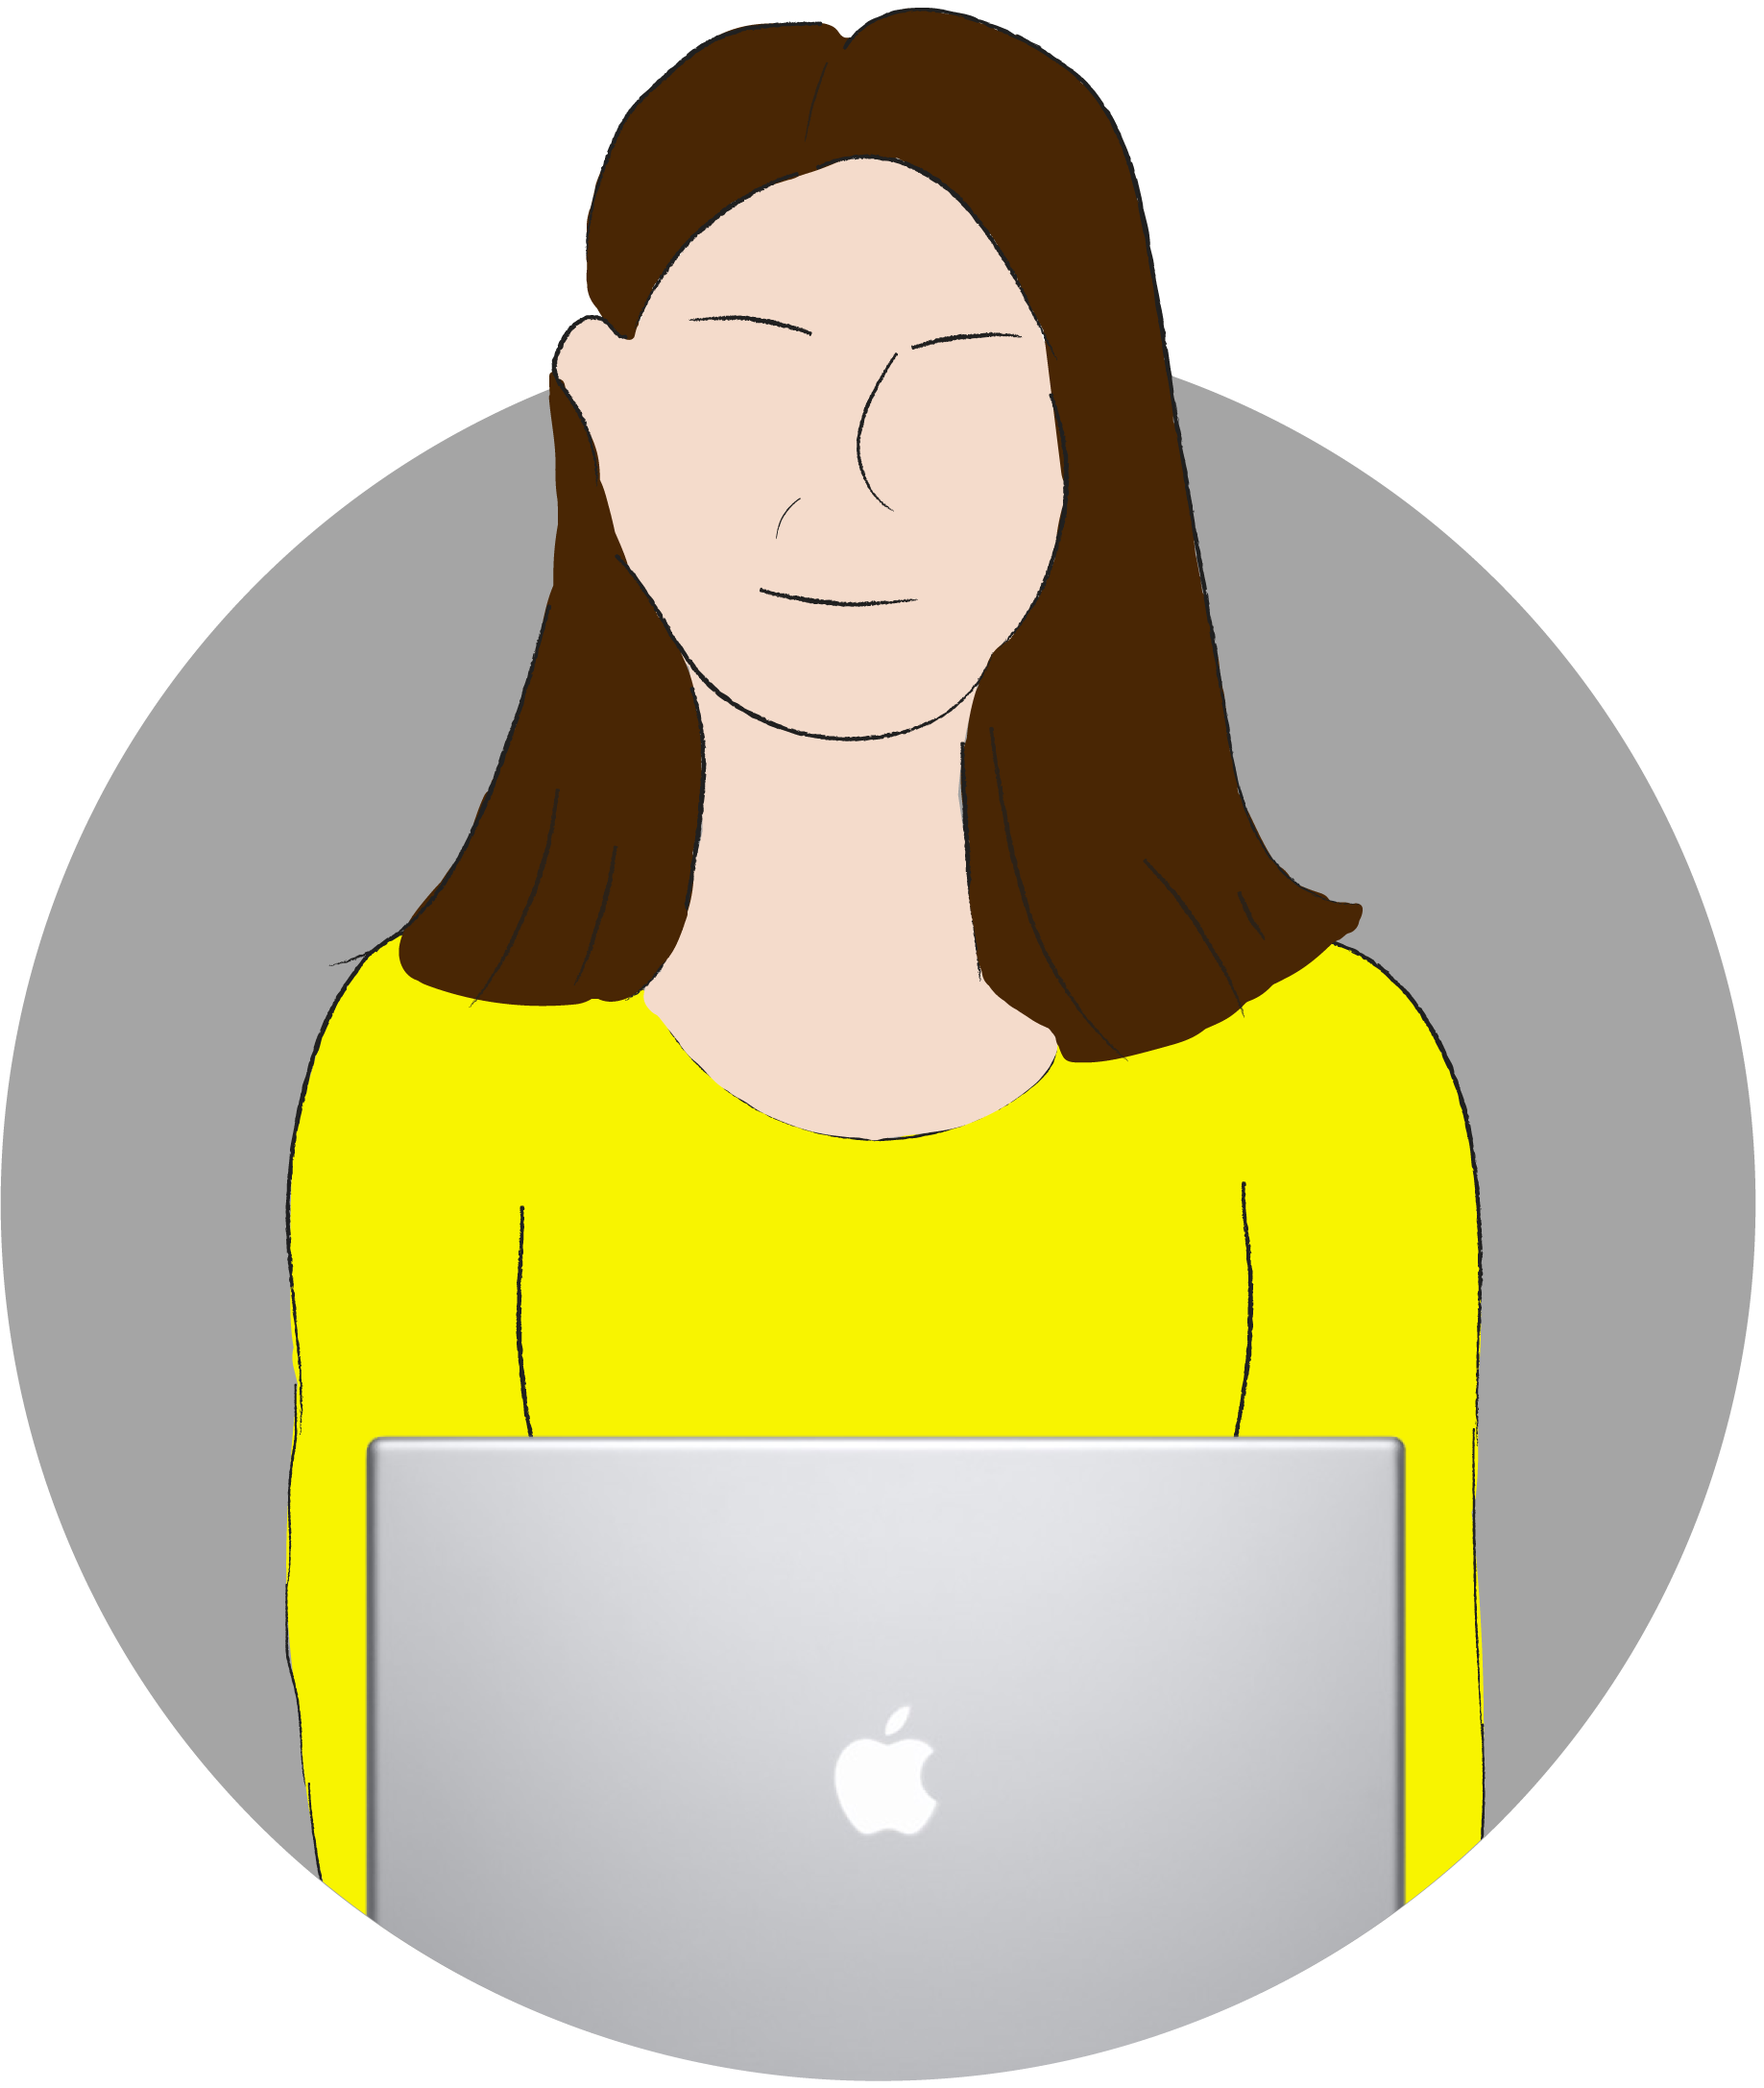
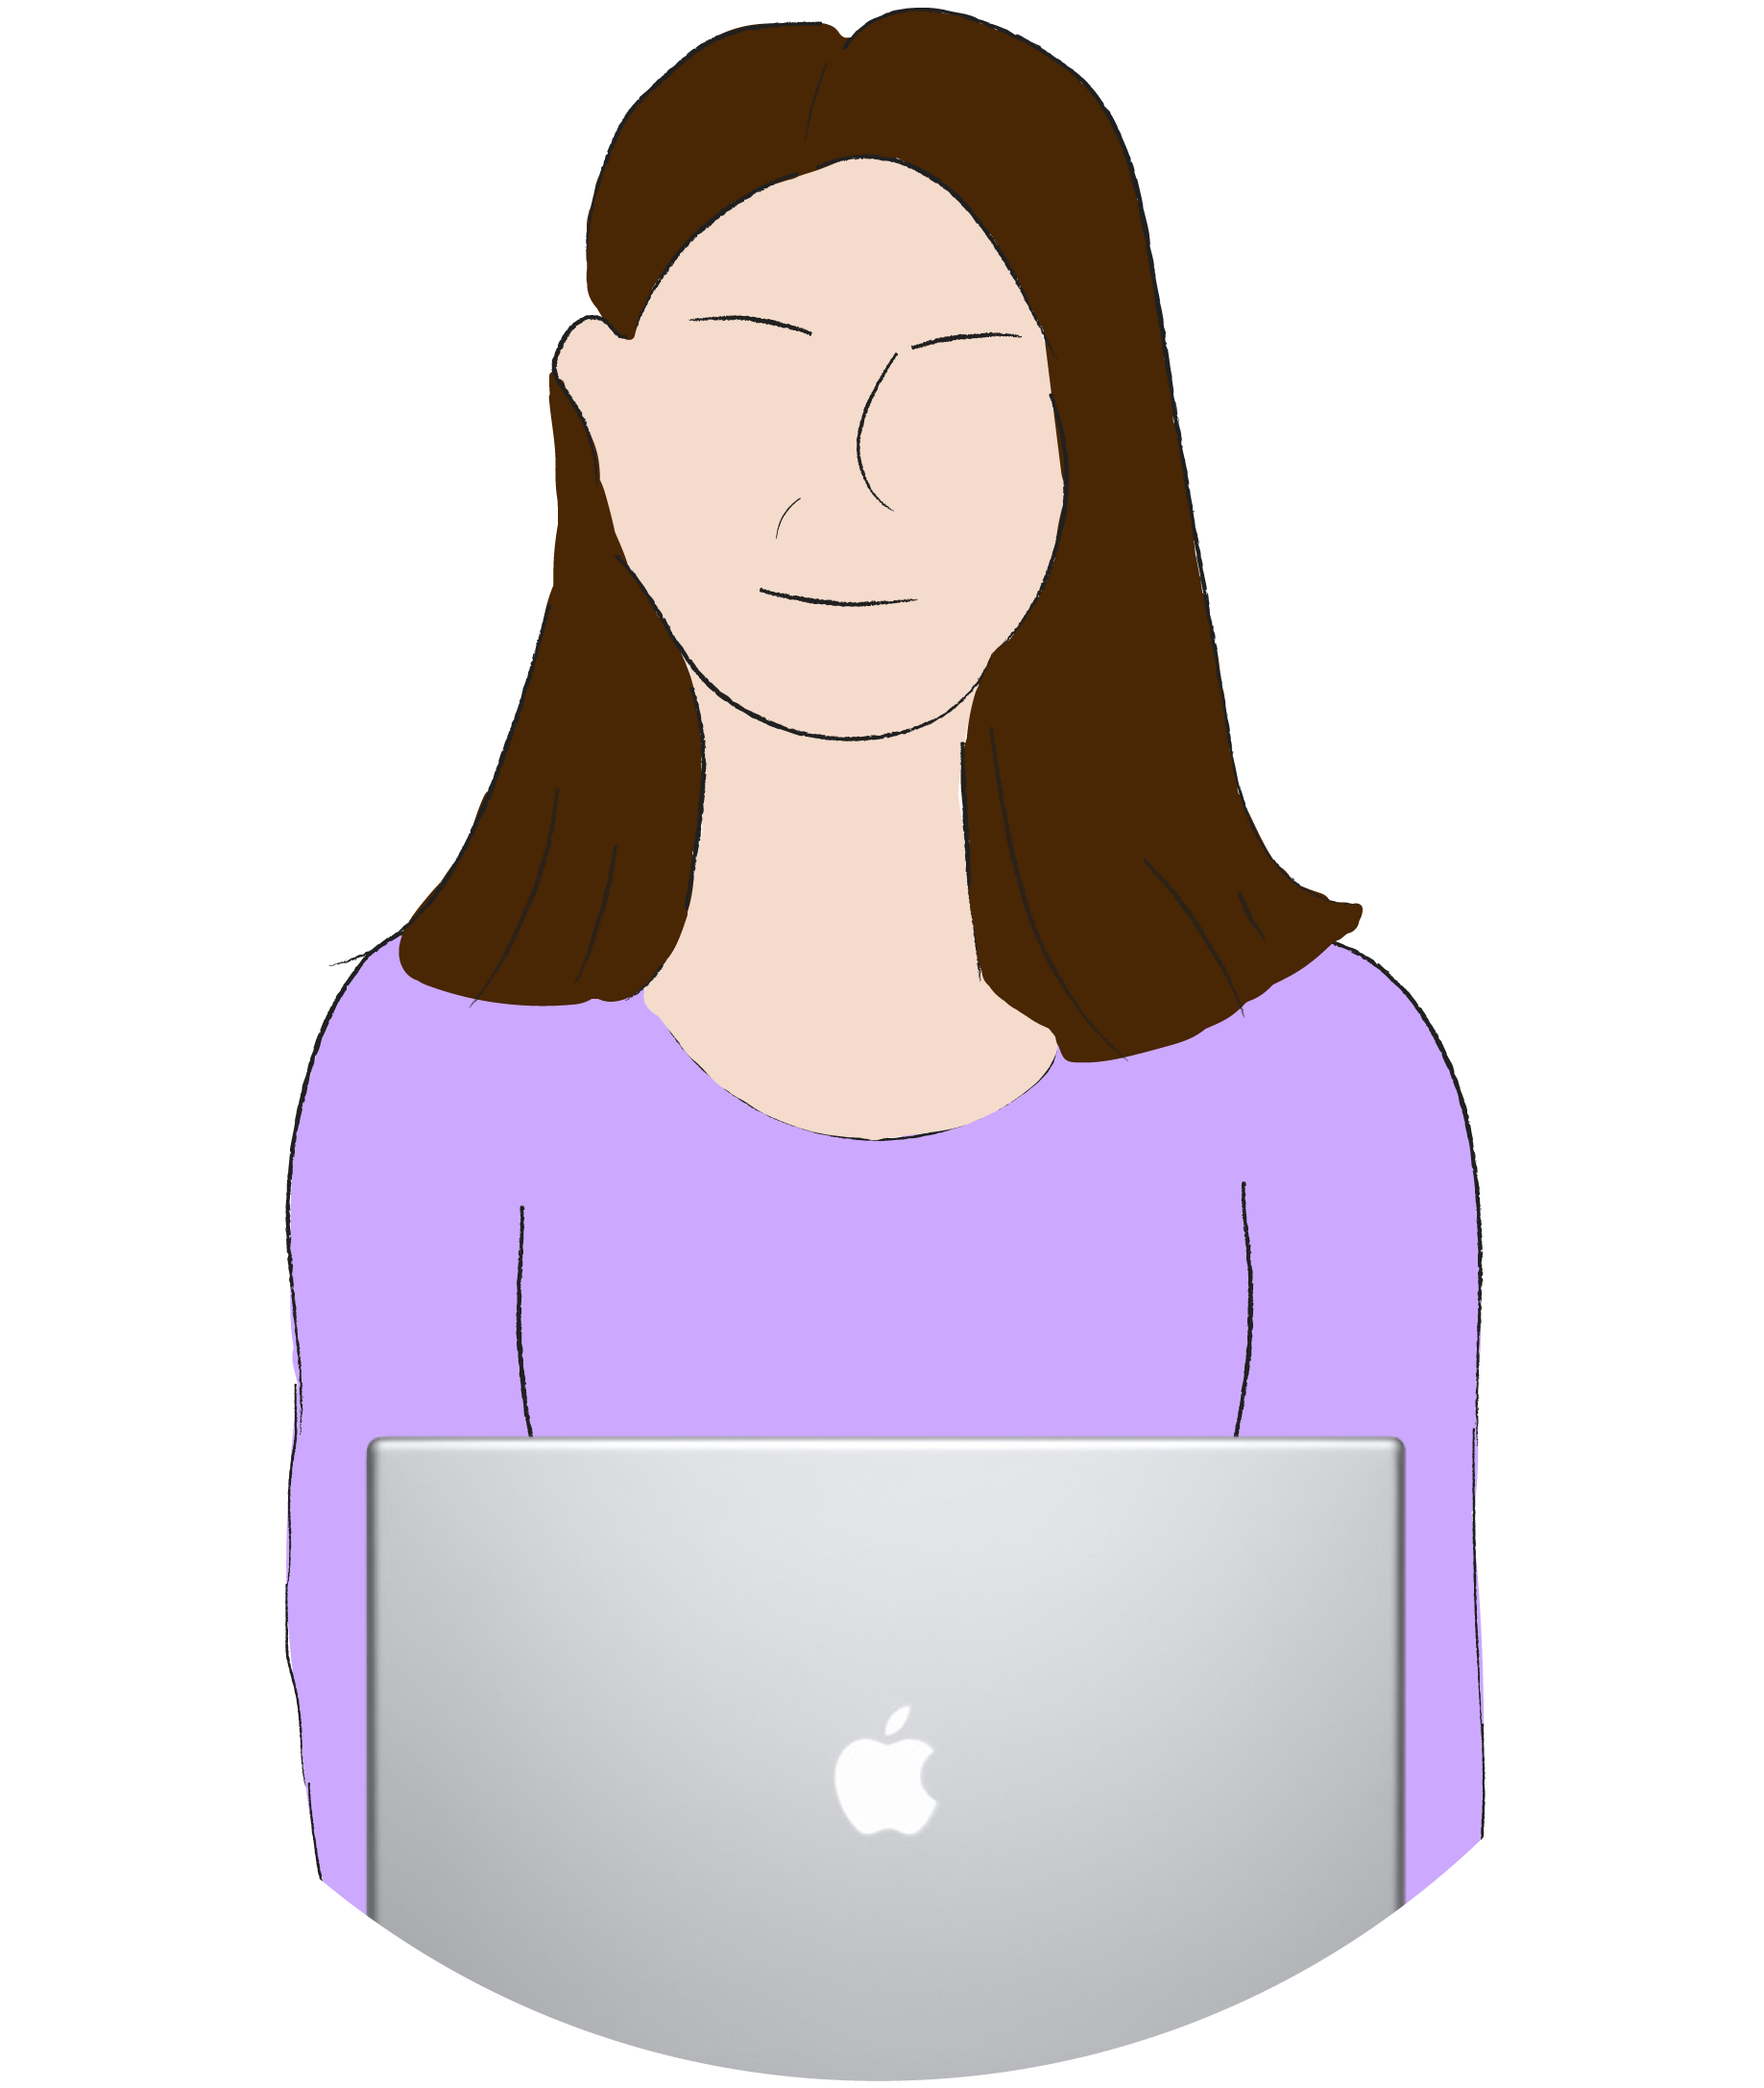
UI수정 /  프로필 사진 변경, 프로필 스타일 추가

diff --git a/src/styles/pages/_profile.scss b/src/styles/pages/_profile.scss
@@ -1,128 +1,146 @@
-$gray: #A5A5A5;
 
 .profile-container {
   width: 100%;
   height: 100%;
   display: flex;
-  background: #ebebeb;
-  text-align: center;
-  justify-content: flex-end;
-  align-items: center;
+  background: #fff8cf;
+  justify-content: space-around;
 
-  .profile-img {
-    height: 400px;
+  .test {
     align-self: center;
-    margin-right: 300px;
   }
 
-  body {
-    font-family: tahoma;
-    height: 100vh;
-    background-image: url(https://picsum.photos/g/3000/2000);
-    background-size: cover;
-    background-position: center;
-    display: flex;
-  }
-
-  .our-team {
-    padding: 30px 0 40px;
-    margin-bottom: 30px;
-    background-color: #f7f5ec;
-    text-align: center;
-    overflow: hidden;
-    position: relative;
-  }
-
-  .our-team .picture {
-    display: inline-block;
-    height: 130px;
-    width: 130px;
-    margin-bottom: 50px;
-    z-index: 1;
-    position: relative;
-  }
-
-  .our-team .picture::before {
-    content: "";
-    width: 100%;
-    height: 0;
-    border-radius: 50%;
-    background-color: #1369ce;
-    position: absolute;
-    bottom: 135%;
-    right: 0;
-    left: 0;
-    opacity: 0.9;
-    transform: scale(3);
-    transition: all 0.3s linear 0s;
-  }
-
-  .our-team:hover .picture::before {
-    height: 100%;
-  }
-
-  .our-team .picture::after {
-    content: "";
-    width: 100%;
-    height: 100%;
-    border-radius: 50%;
-    background-color: #f7f5ec;
-    position: absolute;
-    top: 0;
-    left: 0;
-    z-index: -1;
-  }
-
-  .our-team .picture img {
-    width: 100%;
+  //프로필 부분
+  .profile-frame {
+    width: 400px;
     height: auto;
-    border-radius: 50%;
-    transform: scale(1);
-    transition: all 0.9s ease 0s;
+    background: #fff;
+    border-radius: 3px;
+    box-shadow: 10px 10px 15px 0 rgba(0, 0, 0, 0.3);
+    text-align: center;
+    align-self: center;
+
+    .profile-image {
+      position: relative;
+      width: 200px;
+      height: 200px;
+      margin: 50px auto 80px;
+
+      .circle-1 {
+        position: absolute;
+        box-sizing: border-box;
+        width: 280px;
+        height: 280px;
+        left: -40px;
+        top: -20px;
+        border-width: 1px;
+        border-style: solid;
+        border-color: #ad76ff #ad76ff #ad76ff transparent;
+        border-radius: 50%;
+        transition: all 1.5s ease-in-out;
+      }
+
+      .circle-2 {
+        @extend .circle-1;
+        width: 260px;
+        height: 260px;
+        left: -30px;
+        top: -10px;
+        border-color: #ad76ff transparent #ad76ff #ad76ff;
+      }
+
+      img {
+        display: block;
+        border-radius: 50%;
+      }
+
+      &:hover {
+        cursor: pointer;
+
+        .circle-1 {
+          transform: rotate(360deg);
+        }
+
+        .circle-2 {
+          transform: rotate(-360deg);
+        }
+      }
+    }
+
+    .profile-button {
+      color: #7c25ff;
+      .name {
+        font-size: 30px;
+        font-weight: 600;
+      }
+
+      .job {
+        font-size: 15px;
+        line-height: 15px;
+      }
+
+      .actions {
+        margin: 30px auto;
+        display: flex;
+        justify-content: center;
+
+        .btn {
+          display: block;
+          margin-left: 5px;
+          background: none;
+          border: 1px solid #ad76ff;
+          border-radius: 20px;
+          font-size: 15px;
+          font-weight: 600;
+          box-sizing: border-box;
+          transition: all 0.3s ease-in-out;
+          color: #ad76ff;
+
+          &:hover {
+            background: #ad76ff;
+            color: #fff;
+          }
+        }
+      }
+    }
   }
 
-  .our-team:hover .picture img {
-    box-shadow: 0 0 0 14px #f7f5ec;
-    transform: scale(0.7);
-  }
+  .stats {
+    display: flex;
+    justify-content: center;
 
-  .our-team .title {
-    display: block;
-    font-size: 15px;
-    color: #4e5052;
-    text-transform: capitalize;
-  }
+    .box {
+      box-sizing: border-box;
+      width: 110px;
+      height: 90px;
+      background: #ad76ff;
+      text-align: center;
+      transition: all 0.4s ease-in-out;
+      display: grid;
+      flex: 1;
 
-  .our-team .social {
-    width: 100%;
-    padding: 0;
-    margin: 0;
-    background-color: #1369ce;
-    position: absolute;
-    bottom: -100px;
-    left: 0;
-    transition: all 0.5s ease 0s;
-  }
+      &:hover {
+        background: #7c25ff;
+        cursor: pointer;
+      }
 
-  .our-team:hover .social {
-    bottom: 0;
-  }
+      &:nth-child(2) {
+        margin: 0px 5px;
+      }
+    }
 
-  .our-team .social li {
-    display: inline-block;
-  }
+    span {
+      display: block;
+    }
 
-  .our-team .social li a {
-    display: block;
-    padding: 10px;
-    font-size: 17px;
-    color: white;
-    transition: all 0.3s ease 0s;
-    text-decoration: none;
-  }
+    .value {
+      font-size: 18px;
+      font-weight: 600;
+      align-self: end;
+    }
 
-  .our-team .social li a:hover {
-    color: #1369ce;
-    background-color: #f7f5ec;
+    .parameter {
+      font-size: 11px;
+    }
   }
 }

diff --git a/src/pages/profile/Profile.js b/src/pages/profile/Profile.js
@@ -5,48 +5,39 @@ class Profile extends Component {
   render() {
     return (
       <div className="profile-container">
-        <div class="col-12 col-sm-6 col-md-4 col-lg-3">
-          <div class="our-team">
+        <div className="test">선희누나 세젤예</div>
+        <div className="profile-frame">
+          <div class="profile-image">
+            <div class="circle-1"></div>
+            <div class="circle-2"></div>
             <div class="picture">
-              <img
-                class="img-fluid"
-                src={profileImg}
-              />
+              <img class="img-fluid" src={profileImg} />
             </div>
-            <div class="team-content">
-              <h3 class="name">Michele Miller</h3>
-              <h4 class="title">Web Developer</h4>
+          </div>
+
+          <div className="profile-button">
+            <div class="name">yusunhee</div>
+            <div class="job">Web Publisher</div>
+
+            <div class="actions">
+              <button class="btn">Follow</button>
+              <button class="btn">Message</button>
             </div>
-            <ul class="social">
-              <li>
-                <a
-                  href="https://codepen.io/collection/XdWJOQ/"
-                  class="fa fa-facebook"
-                  aria-hidden="true"
-                ></a>
-              </li>
-              <li>
-                <a
-                  href="https://codepen.io/collection/XdWJOQ/"
-                  class="fa fa-twitter"
-                  aria-hidden="true"
-                ></a>
-              </li>
-              <li>
-                <a
-                  href="https://codepen.io/collection/XdWJOQ/"
-                  class="fa fa-google-plus"
-                  aria-hidden="true"
-                ></a>
-              </li>
-              <li>
-                <a
-                  href="https://codepen.io/collection/XdWJOQ/"
-                  class="fa fa-linkedin"
-                  aria-hidden="true"
-                ></a>
-              </li>
-            </ul>
+          </div>
+
+          <div class="stats">
+            <div class="box">
+              <span class="value">124</span>
+              <span class="parameter">Posts</span>
+            </div>
+            <div class="box">
+              <span class="value">4357</span>
+              <span class="parameter">Likes</span>
+            </div>
+            <div class="box">
+              <span class="value">1180</span>
+              <span class="parameter">Follower</span>
+            </div>
           </div>
         </div>
       </div>
